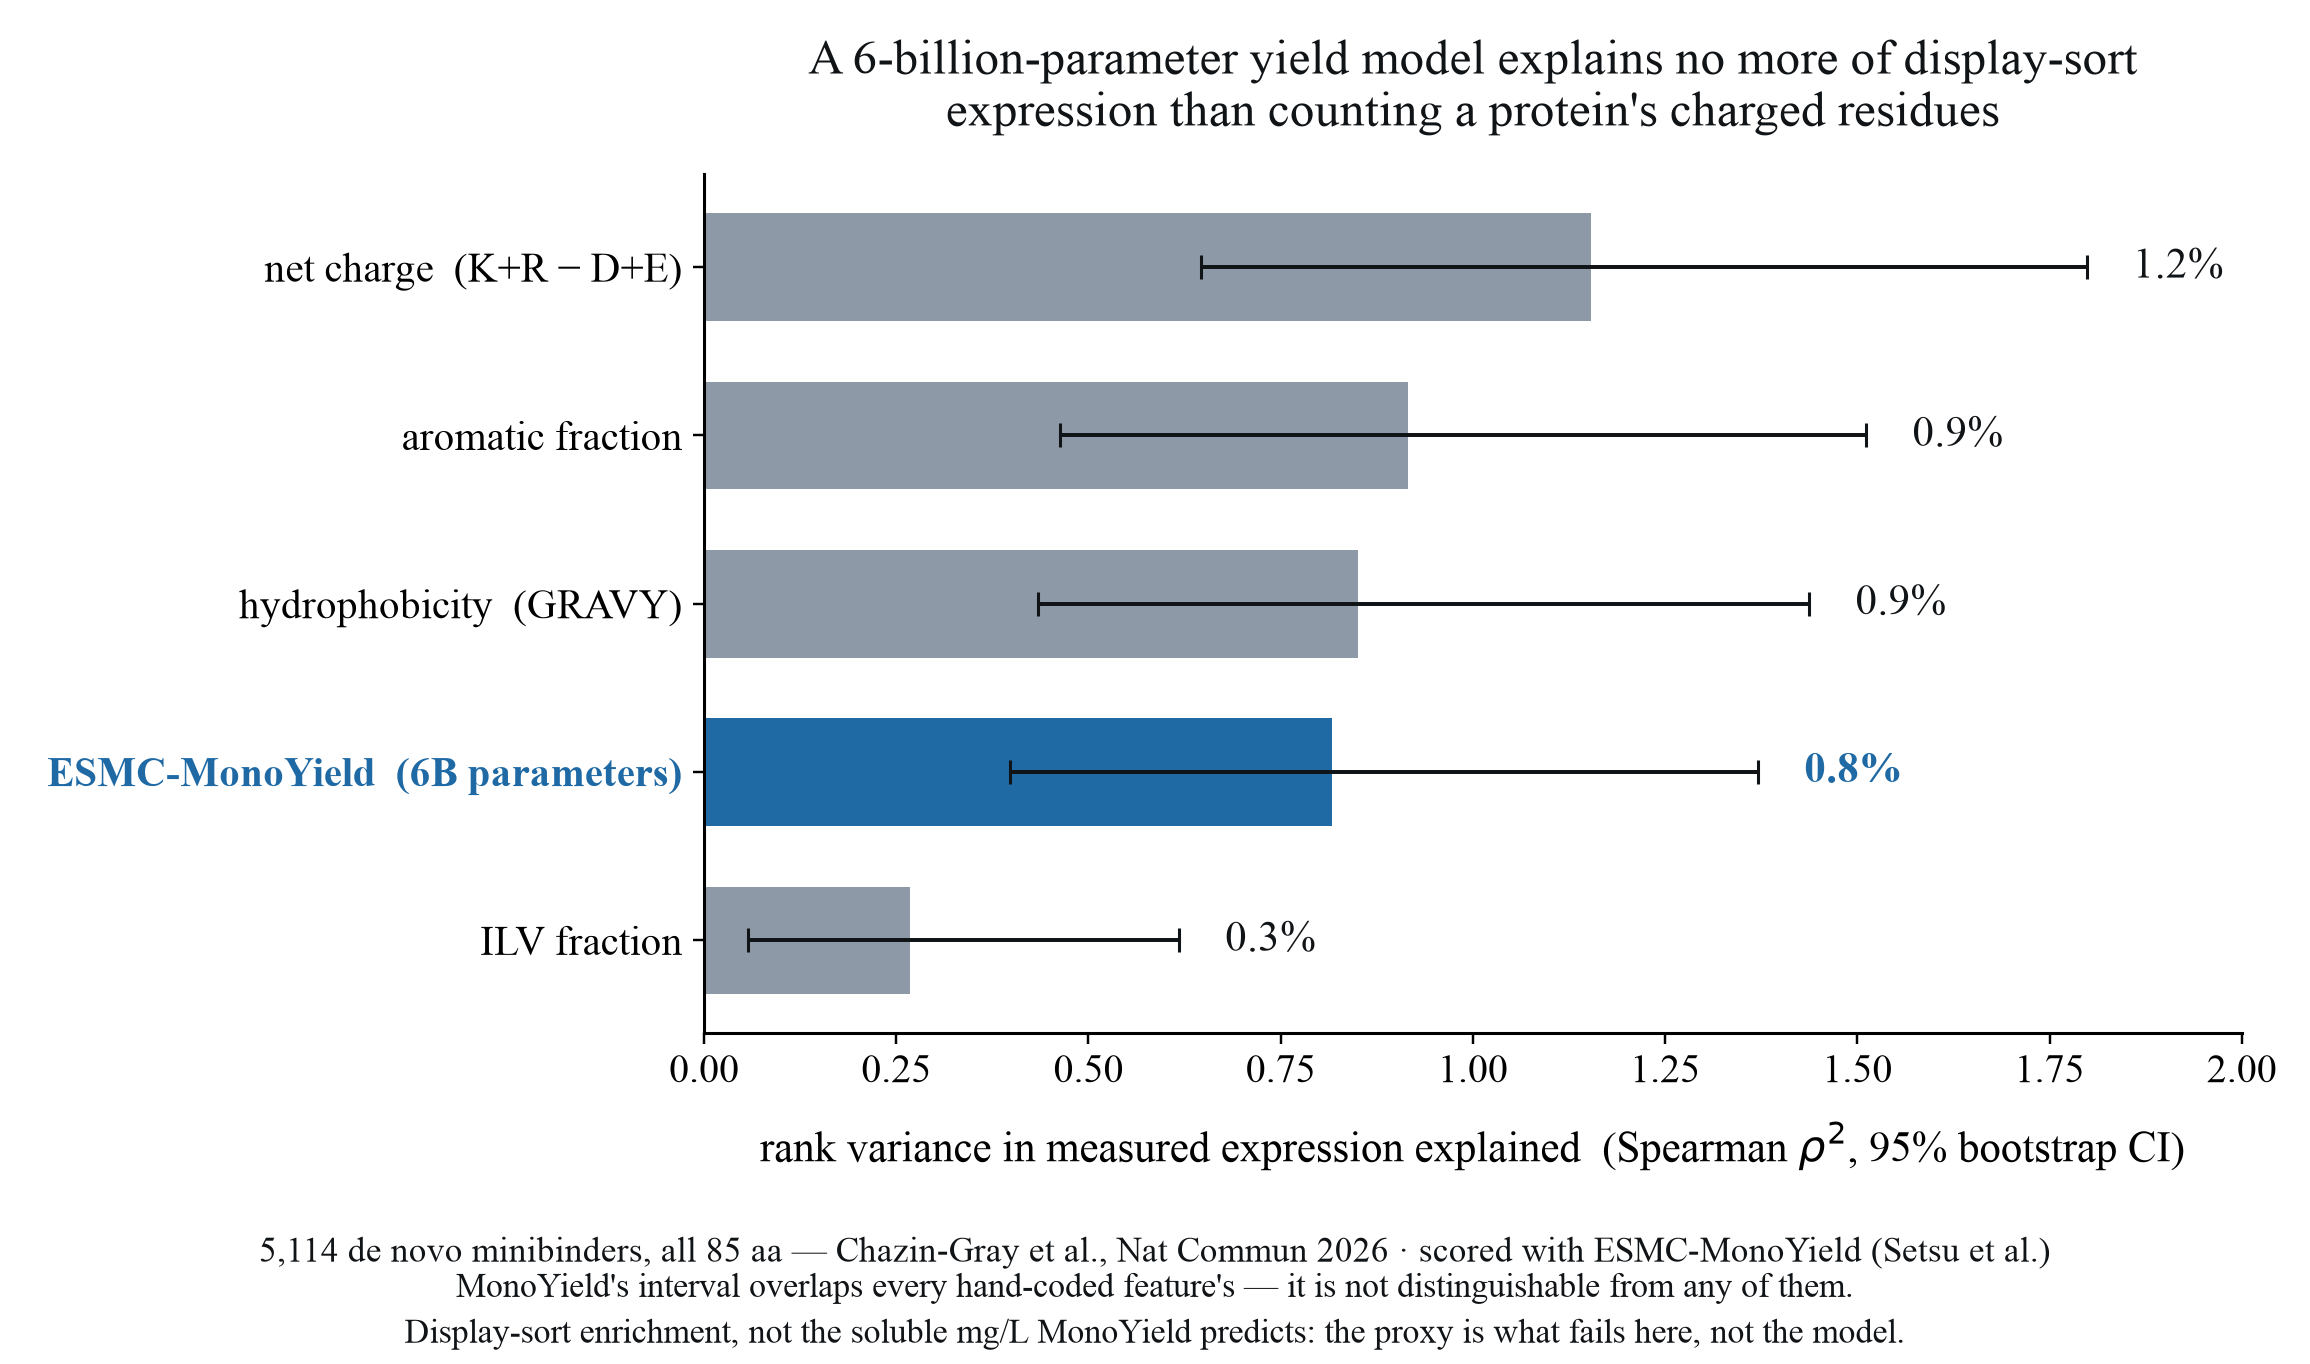
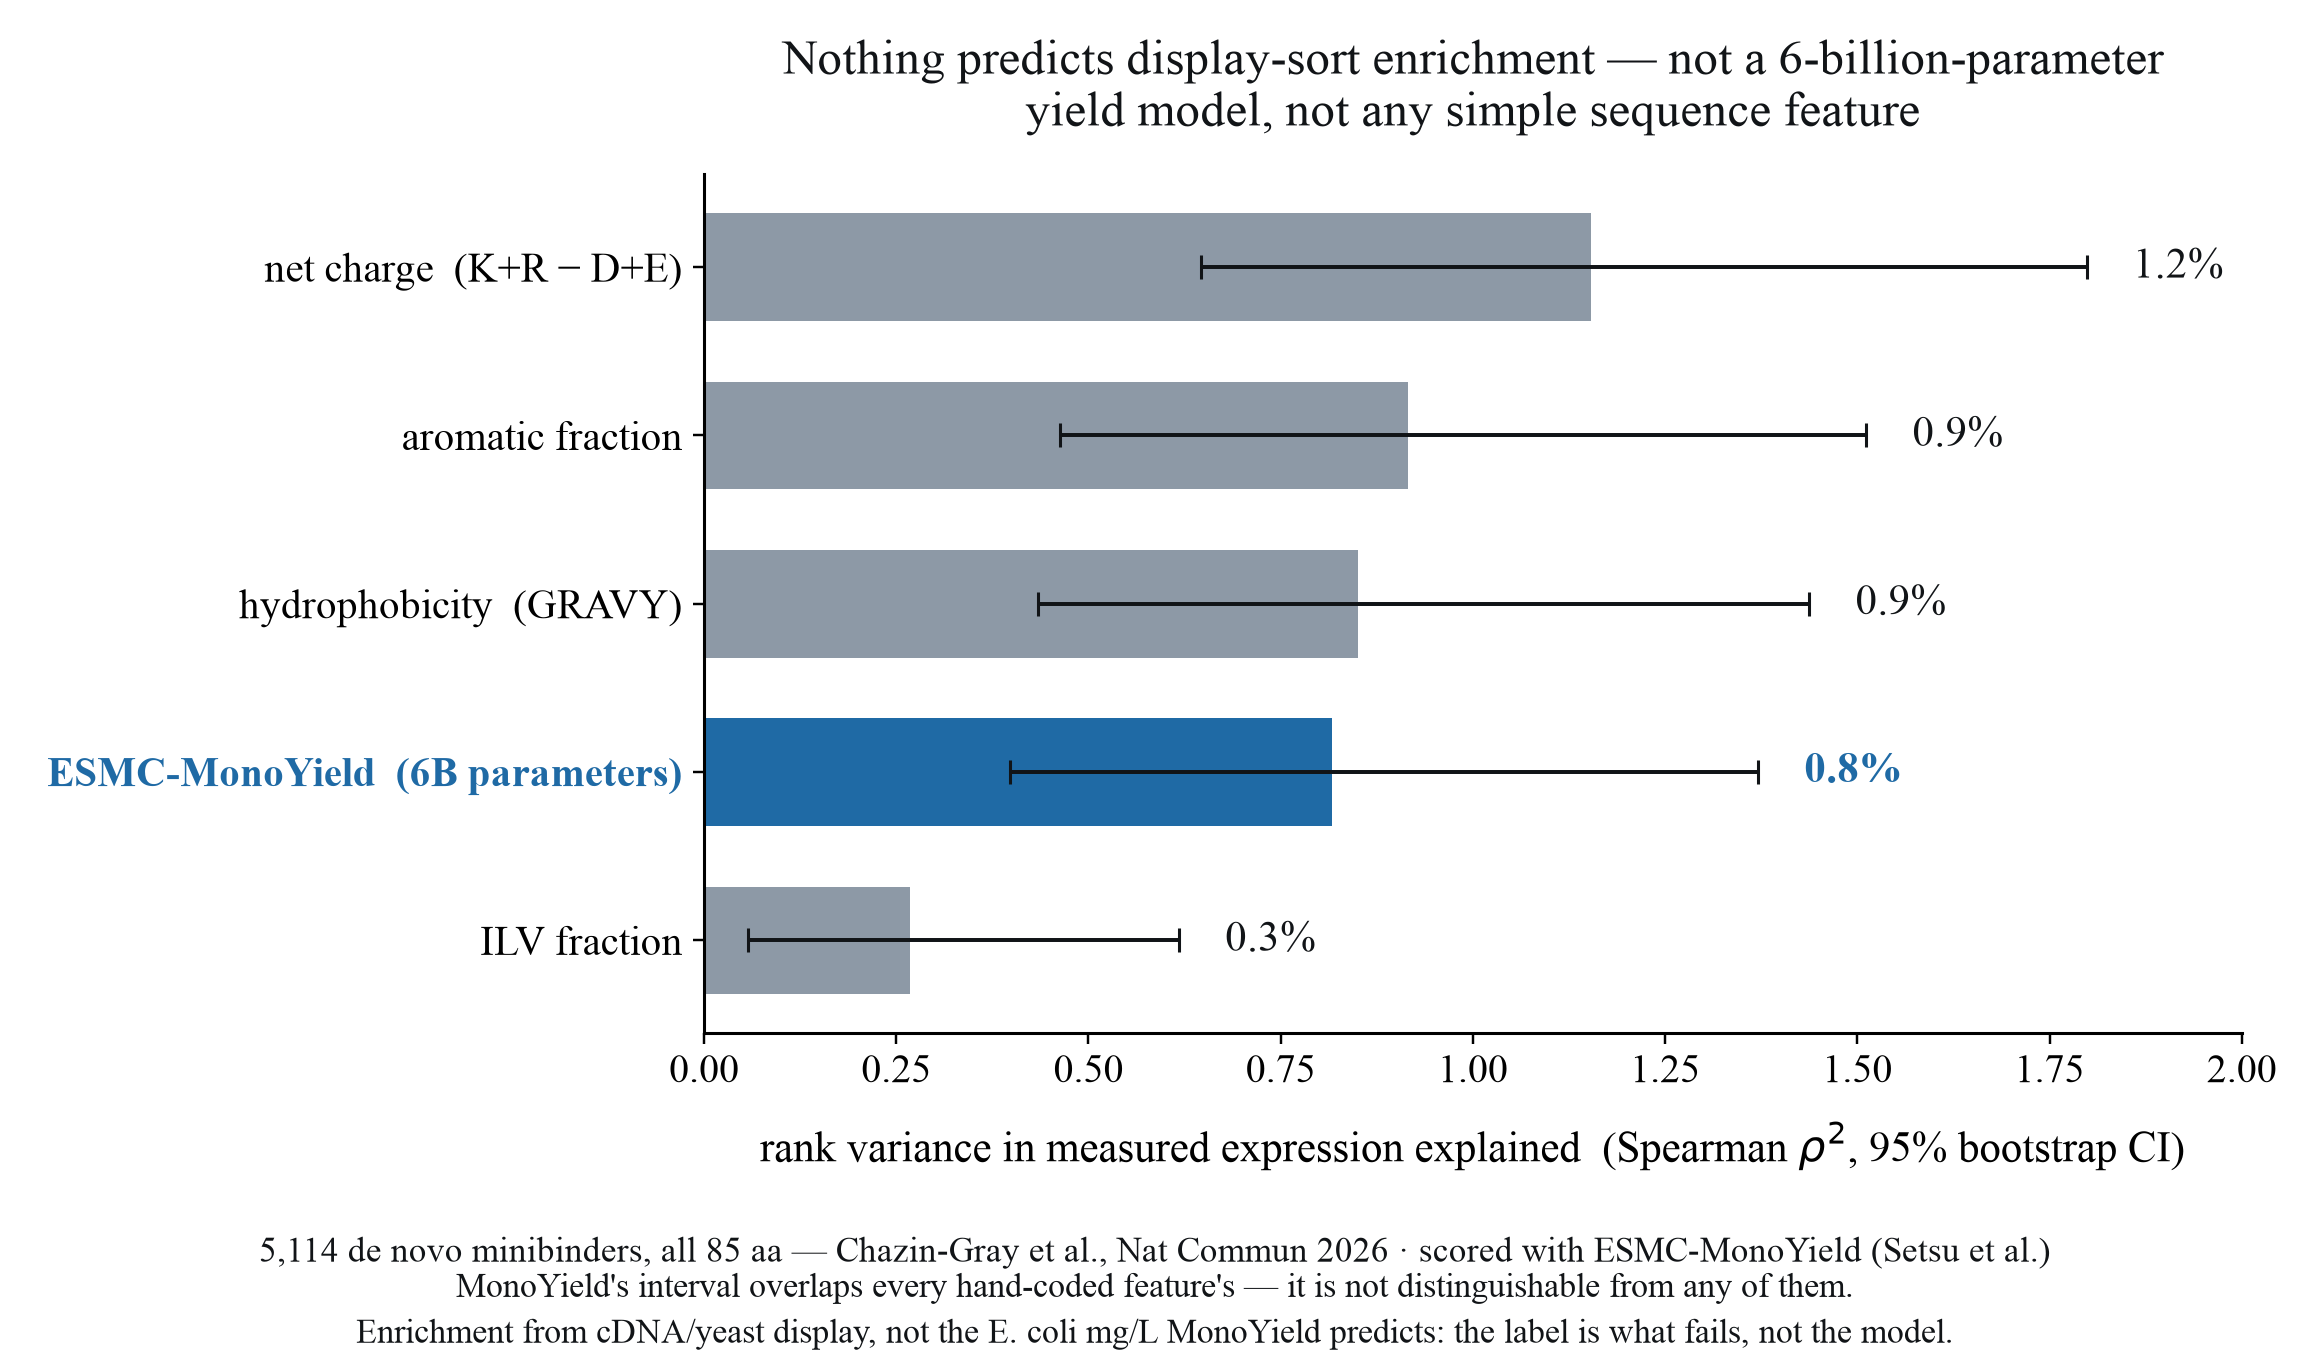
Say plainly that this is the wrong assay, and drop an unverified detail
Read the authors' own thread and the preprint abstract, and two things in
here were weaker than they looked.

The caveat said "display-sort enrichment, not the soluble mg/L MonoYield
predicts". That understates it. ESMC-MonoYield is trained on monomeric
yield in E. coli, mg/L, from a pooled peptide-barcode + SEC + mass-spec
assay under uniform conditions. The readout here is NGS enrichment from
cDNA display and yeast display: a different organism, a different
construct and a different quantity. Saying "a proxy" invited reading this
as a test of the model, which it is not.

The claim that their binder validation was measured "by HPLC-SEC" was not
something I could source. The counts were right but the method was my
inference, so it is replaced with what the authors actually report: 6 of
11 model-selected BindCraft designs above 10 mg/L against 2 of 10 random.
Their prospective test worked, and that is now stated rather than implied.

The negative sign also moves out of the headline. rho = -0.09 at n = 5,021
is significant (p ~ 1e-10) and still 0.8% of the variance; across a
different expression system it is not evidence of anything directional.

Figure retitled to lead with the finding -- that nothing predicts this
label -- rather than with the model's number.

Setsu et al. 2026, doi 10.64898/2026.11.02.763507. First author confirmed
from the bioRxiv author list, not from a search summary.

Changed region(s): [[0.3429, 0.0308, 0.9351, 0.0924], [0.1558, 0.9545, 0.8416, 0.9853]]

diff --git a/scripts/plot_fimh_label_signal.py b/scripts/plot_fimh_label_signal.py
@@ -76,8 +76,8 @@ ax.set_xlim(0, 2.0)
 ax.set_xlabel("rank variance in measured expression explained  "
               "(Spearman $\\rho^2$, 95% bootstrap CI)", labelpad=10)
 
-ax.set_title("A 6-billion-parameter yield model explains no more of display-sort\n"
-             "expression than counting a protein's charged residues",
+ax.set_title("Nothing predicts display-sort enrichment \u2014 not a 6-billion-parameter\n"
+             "yield model, not any simple sequence feature",
              fontsize=16, pad=16, color=DARK)
 fig.text(0.5, 0.075,
          "5,114 de novo minibinders, all 85 aa — Chazin-Gray et al., Nat Commun 2026 · "
@@ -85,7 +85,7 @@ fig.text(0.5, 0.075,
          ha="center", fontsize=11.5, color=DARK)
 fig.text(0.5, 0.005,
          "MonoYield's interval overlaps every hand-coded feature's \u2014 it is not distinguishable from any of them.\n"
-         "Display-sort enrichment, not the soluble mg/L MonoYield predicts: the proxy is what fails here, not the model.",
+         "Enrichment from cDNA/yeast display, not the E. coli mg/L MonoYield predicts: the label is what fails, not the model.",
          ha="center", va="bottom", fontsize=11, color=DARK, linespacing=1.5)
 fig.tight_layout(rect=[0, 0.115, 1, 1])
 fig.savefig("figures/fimh_label_signal.png", dpi=220)

diff --git a/scripts/make_fimh_display_expression.py b/scripts/make_fimh_display_expression.py
@@ -6,9 +6,10 @@ Data MOESM5 (the NGS pool table).
 Its `sort` column carries an `expression` sort alongside `naive`, so every design
 has an expression readout -- including the ones that failed outright.
 
-NOT E. coli soluble yield: this is display expression, a proxy. The paper screened
-FimH by cDNA display and Abp by yeast display, and the table does not say which
-platform the `Adhesin` pools used.
+NOT the quantity ESMC-MonoYield predicts, and not the same expression system:
+that model is trained on monomeric yield in E. coli in mg/L. This is NGS enrichment
+from cDNA display (FimH, in vitro translation) and yeast display (Abp), and the
+table does not say which platform the `Adhesin` pools used.
 
     python scripts/make_fimh_display_expression.py
 """

diff --git a/README.md b/README.md
@@ -7,11 +7,13 @@ including the ones that failed outright. Scored with
 [ESMC-MonoYield](https://github.com/tsubo-lab/monoyield-predictor) using the authors' own
 weights.
 
-It explains **0.8%** of the rank variance, with the sign pointing the wrong way
-(ρ = −0.09: higher predicted yield, slightly *lower* measured expression). Counting charged
-residues gets **1.2%**, but those two intervals overlap — MonoYield is not distinguishable
-from any hand-coded feature here, in either direction. Nothing reaches 2%. The limit is the
-label, not the model.
+It explains **0.8%** of the rank variance. Counting charged residues gets **1.2%**, and those
+two intervals overlap — nothing here is distinguishable from anything else, and nothing
+reaches 2%. The limit is the label, not the model.
+
+(The correlation is slightly negative, ρ = −0.09. At n = 5,021 that is significant,
+p ≈ 1e-10, and still 0.8% of the variance. Across a different expression system it is not
+evidence of anything directional, so it is a curiosity rather than a result.)
 
 ## The data
 
@@ -31,13 +33,17 @@ scored sequence rather than trusting.
 
 ## Caveats
 
-This is **display-sort enrichment, not the soluble mg/L** MonoYield predicts — a proxy, usable
-rank-only within this library. MonoYield's own binder validation is a different and cleaner
-measurement: 11 high-scoring plus 10 randomly sampled BindCraft designs by HPLC-SEC
-([Setsu et al.](https://doi.org/10.64898/2026.11.02.763507)). Nothing here contradicts it.
+**This is not the quantity MonoYield predicts, and not even the same expression system.**
+ESMC-MonoYield is trained on monomeric yield in *E. coli*, measured in mg/L by a pooled
+peptide-barcode + SEC + mass-spec assay under uniform conditions
+([Setsu et al. 2026](https://doi.org/10.64898/2026.11.02.763507)). The readout here is NGS
+enrichment from **cDNA display** (FimH, in vitro translation) and **yeast display** (Abp) —
+a different organism, a different construct and a different quantity, usable rank-only
+within this library. The table does not say which platform the 3,857 `Adhesin` rows used.
 
-The paper screened FimH by cDNA display and Abp by yeast display; the table does not say which
-platform the 3,857 `Adhesin` rows used.
+So this is a test of the label, not a test of the model. The authors' own prospective test is
+the fair one, and it worked: **6 of 11** model-selected BindCraft designs exceeded 10 mg/L
+monomeric yield, against **2 of 10** randomly selected. Nothing here contradicts that.
 
 ## Reproducing
 
